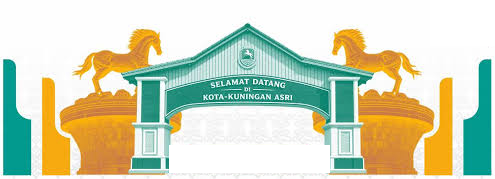
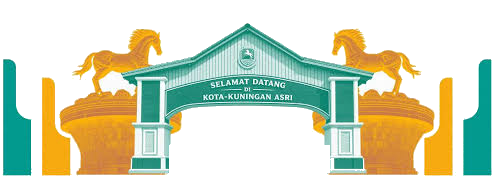
fix(hero): preserve original gate height with 2400px white flanks to eliminate blocking

diff --git a/frontend/src/app/page.tsx b/frontend/src/app/page.tsx
@@ -2414,12 +2414,12 @@ export default function Home() {
             <div className="absolute -right-20 -bottom-20 w-[550px] h-[550px] bg-[#eda50c]/25 rounded-full blur-3xl pointer-events-none" />
             <div className="absolute -top-20 -left-20 w-[500px] h-[500px] bg-[#009388]/30 rounded-full blur-3xl pointer-events-none" />
 
-            {/* 2. Landmark Gerbang Kuningan Asri (Integrated Elegantly) */}
-            <div className="absolute inset-x-0 bottom-14 flex items-end justify-center pointer-events-none select-none z-0 opacity-20 mix-blend-screen">
+            {/* 2. Landmark Gerbang Kuningan Asri (Tinggi Asli di Tengah, Kiri Kanan Putih Menyatu Tanpa Blocking) */}
+            <div className="absolute inset-x-0 bottom-0 w-full flex items-end justify-center pointer-events-none select-none z-0 mix-blend-multiply opacity-80 overflow-hidden">
               <img
-                src="/kuningan-gate.png"
+                src="/kuningan-gate-wide.png"
                 alt="Landmark Gerbang Kuningan Asri"
-                className="w-full max-w-4xl h-auto object-contain object-bottom filter brightness-125 select-none [mask-image:linear-gradient(to_top,black_60%,transparent)]"
+                className="w-full h-[150px] sm:h-[175px] md:h-[190px] object-cover object-bottom select-none [mask-image:linear-gradient(to_top,black_80%,transparent)] filter brightness-105 contrast-110"
               />
             </div>
 

diff --git a/DEVELOPMENT_LOG.md b/DEVELOPMENT_LOG.md
@@ -190,6 +190,13 @@
        3. **Potensi Mata Air Alami:** `45 Liter / Detik` (Debit Mata Air Purba Cikaduran Dusun Puhun).
        4. **Sentra Ekonomi & Potensi Unggulan:** `3 Klaster Potensi` (Tani Organik, Peternakan Sapi & UMKM Olahan Ubi).
 
+ 17. Penyesuaian Dimensi Landmark Gerbang Kuningan (Tinggi Proporsional & Flank Putih Full-Width):
+   - Penyelesaian Masalah Skala Gambar (Mencegah "Kegedan" saat Full-Width):
+     - Mempertahankan tinggi asli landmark gerbang Kuningan yang proporsional dan tidak mendominasi layar (`h-[150px] sm:h-[175px] md:h-[190px]`).
+     - Membuat aset panorama [frontend/public/kuningan-gate-wide.png](file:///home/jrilym/Projects/Next/desa/frontend/public/kuningan-gate-wide.png) berukuran 2400 x 179 piksel: gerbang landmark tetap berada di tengah dengan dimensi asli, sementara area kiri dan kanannya di-insert warna putih murni (`#ffffff`) yang identik dengan background foto gerbang.
+     - Menggunakan `mix-blend-multiply` dengan container `inset-x-0 bottom-0 w-full justify-center`: area putih di kiri, tengah, dan kanan secara mulus ter-multiplikasi sempurna dengan gradien teal Kuningan, menghilangkan batas potongan blocking putih tanpa memperbesar ukuran gerbang secara berlebihan.
+     - Siluet gerbang, kuda emas, dan pilar Kuningan tetap tampil estetik, proporsional, dan terintegrasi di dasar hero section di atas strip indikator data desa.
+
 ---
 
 ## 🎯 Status & Pekerjaan Selanjutnya (Next Action)
@@ -205,6 +212,7 @@
 - [x] Restorasi palet warna Hero section kembali ke nuansa Kuningan Teal [index.html](file:///home/jrilym/Projects/Next/desa/index.html) (tidak pekat hitam).
 - [x] Restorasi Home Cockpit Card dengan aksen kotak kuning emas KD, jam buka, dan motto resmi Kuningan.
 - [x] Pembaruan strip data bawah Hero dengan 4 indikator vital (492 KK, 64 Ha Padi, 45 L/s Air, 3 Klaster Potensi).
+- [x] Penyesuaian dimensi Gerbang Kuningan: tinggi asli proporsional di tengah, flank kiri-kanan putih seamless 2400px tanpa blocking putih.
 - [x] Verifikasi build Next.js 16 (Turbopack) sukses 100% tanpa error TypeScript/JSX.
 - [ ] Persiapan skema migrasi tabel Supabase (`sensus_kk`, `fasilitas_desa`) jika data akan dipersistensikan ke backend PostgreSQL.
 - [ ] Uji coba lapangan simulasi pendataan sensus oleh Kepala Dusun.
